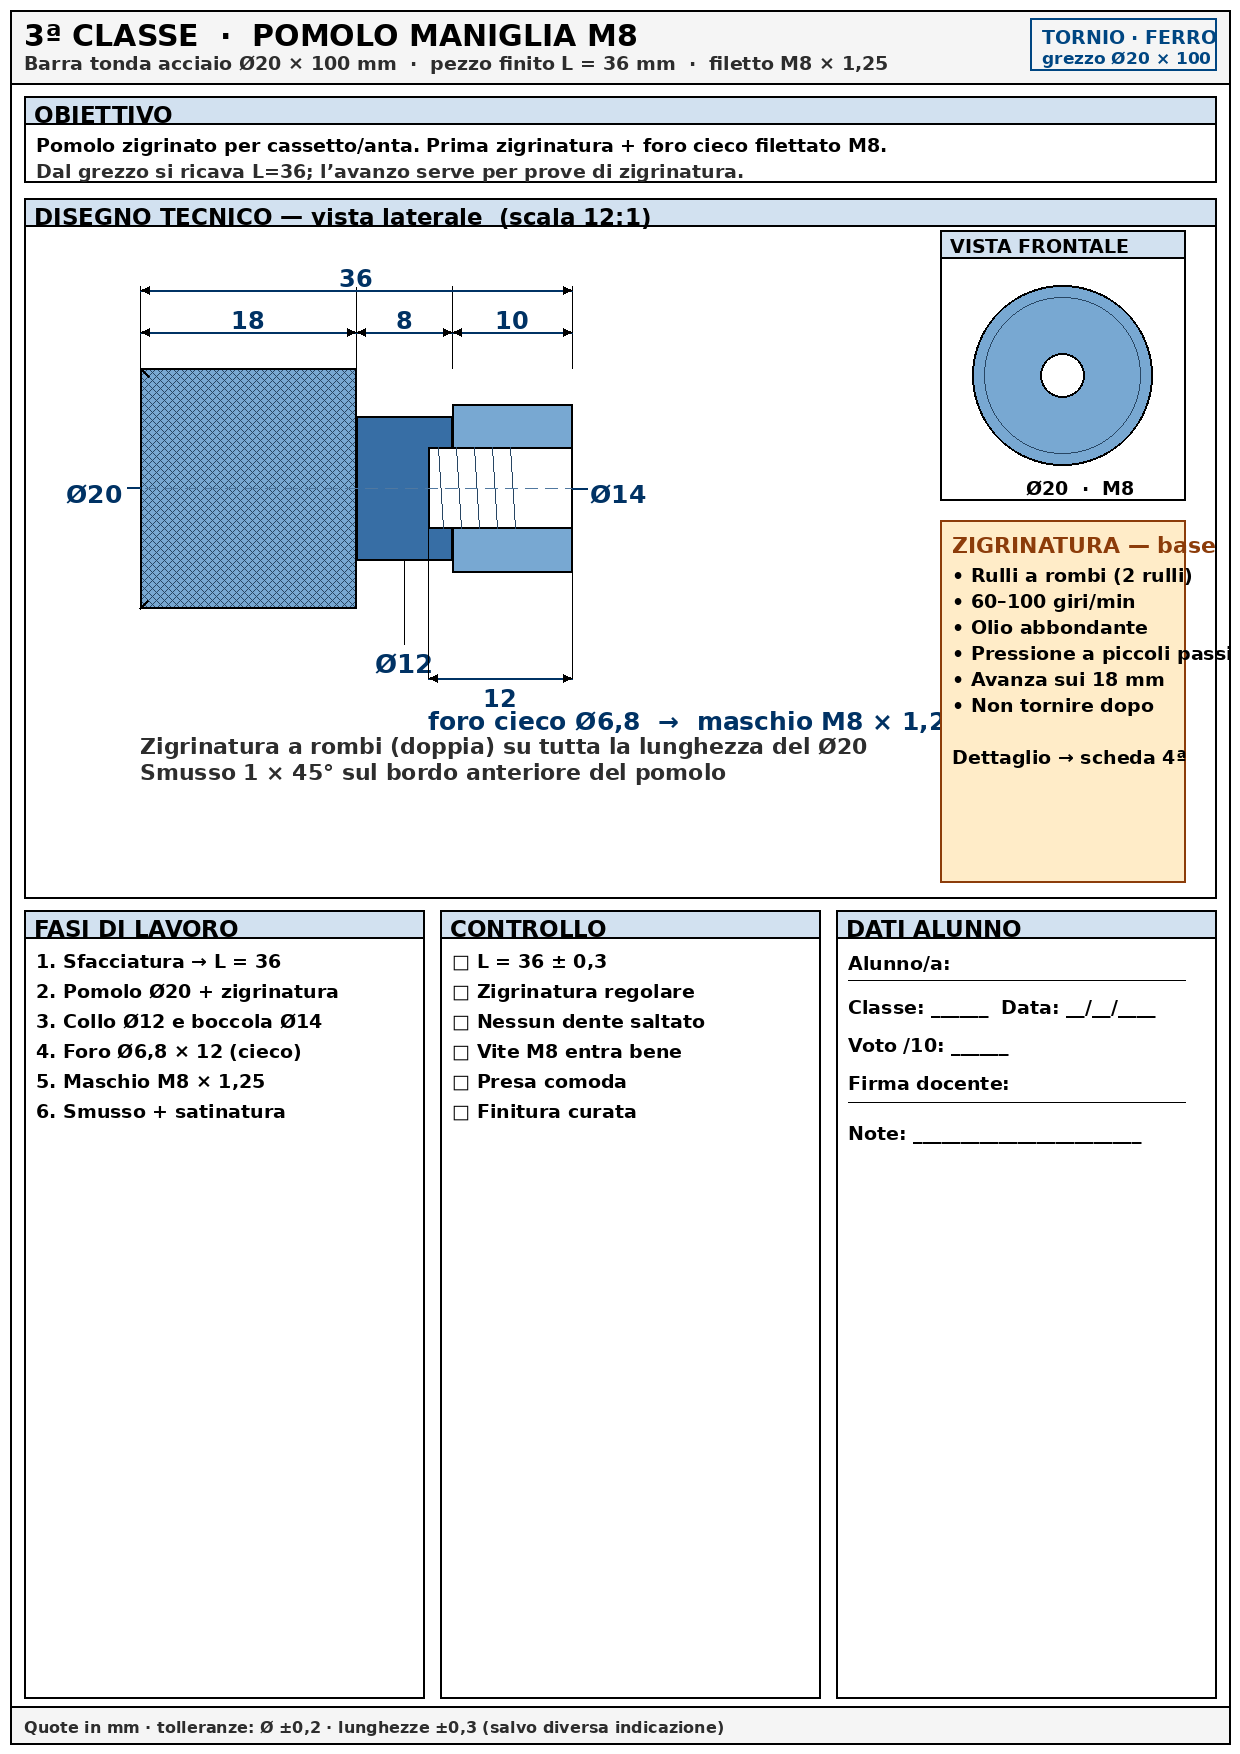
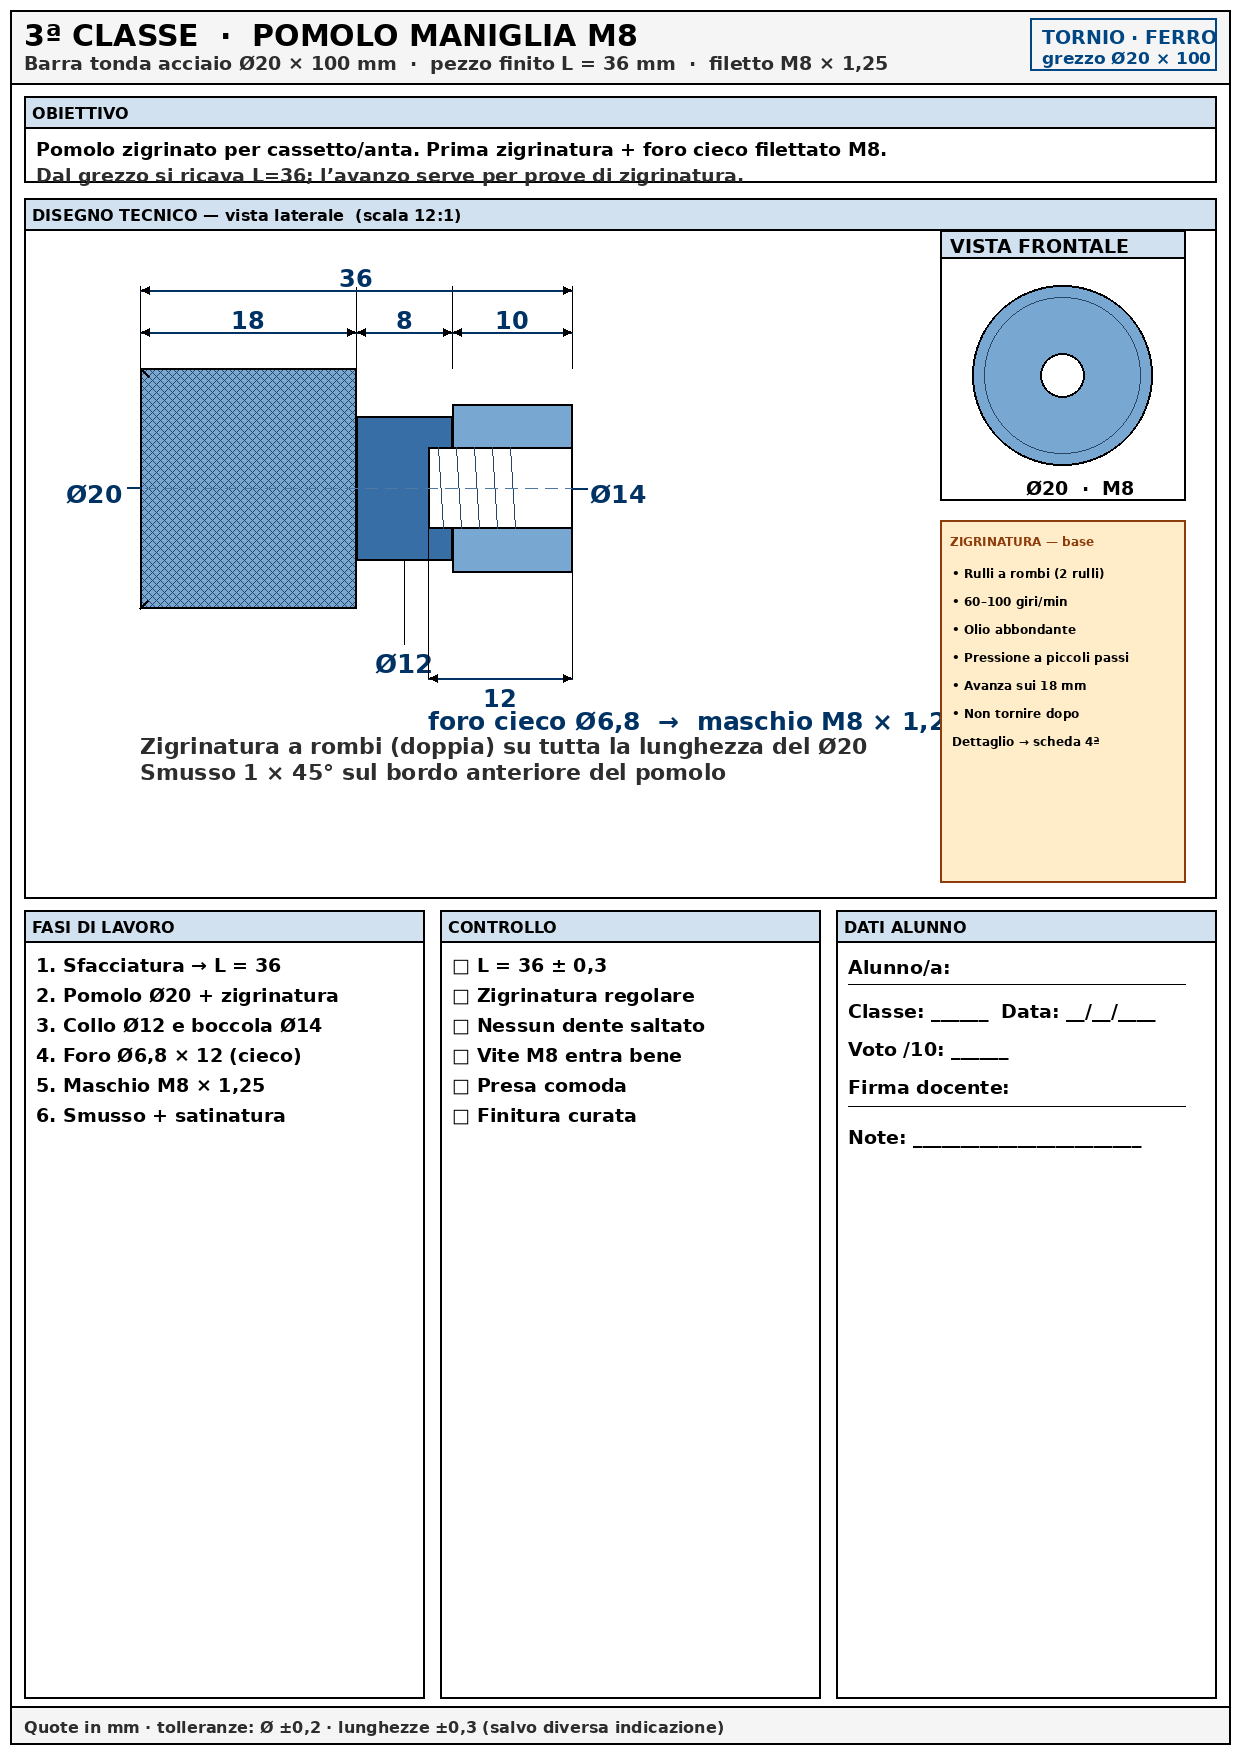
Diciture intere nei riquadri: niente tagli sull'apribottiglie.
Legenda chip larghi, box BOCCA dimensionato sul testo, text_in_box
che riduce il font invece di troncare, dettaglio gancio con fascia
testi riservata.

diff --git a/progetti-ferro-gallery/generate_ferro.py b/progetti-ferro-gallery/generate_ferro.py
@@ -81,10 +81,12 @@ def new_sheet(classe, titolo, sub):
 
 
 def panel(d, x, y, w, h, title):
+    hdr = 32
     d.rectangle([x, y, x + w, y + h], outline=BLACK, width=2)
-    d.rectangle([x, y, x + w, y + 28], fill=LIGHT, outline=BLACK, width=2)
-    d.text((x + 10, y + 5), title, fill=BLACK, font=F14)
-    return y + 34
+    d.rectangle([x, y, x + w, y + hdr], fill=LIGHT, outline=BLACK, width=2)
+    # titolo sempre dentro l’intestazione del pannello
+    text_in_box(d, x, y, w, hdr, title, F14, BLACK, pad=8)
+    return y + hdr + 6
 
 
 def arrow_h(d, x, y, left=True):
@@ -191,66 +193,98 @@ def knurl_box(d, x, y, w, h):
 
 
 def text_fit(d, text, font, max_w):
-    """Accorcia il testo con … se non entra nella larghezza data."""
+    """Ritorna il testo solo se entra; altrimenti None (per fallback)."""
     if d.textlength(text, font=font) <= max_w:
         return text
-    t = text
-    while len(t) > 1 and d.textlength(t + "…", font=font) > max_w:
-        t = t[:-1]
-    return t + "…"
+    return None
+
+
+def text_in_box(d, x, y, w, h, text, font, fill, pad=8):
+    """Scrive testo DENTRO il box: riduce il font se serve, mai fuori dai bordi."""
+    max_w = max(20, w - 2 * pad)
+    max_h = max(12, h - 2 * pad)
+    start = font.size if hasattr(font, "size") else 19
+    for sz in range(min(start, int(max_h)), 10, -1):
+        f = font_b(sz)
+        if d.textlength(text, font=f) <= max_w:
+            # ancora 2px di aria sotto la baseline
+            ty = y + pad + max(0, (max_h - sz) / 2)
+            if ty + sz + 2 > y + h - 2:
+                ty = y + h - sz - 4
+            if ty < y + 2:
+                ty = y + 2
+            d.text((x + pad, ty), text, fill=fill, font=f)
+            return
+    # due righe
+    f = font_b(max(11, min(13, int(max_h / 2) - 1)))
+    words = text.split()
+    line1, line2 = "", ""
+    for w0 in words:
+        trial = (line1 + " " + w0).strip()
+        if d.textlength(trial, font=f) <= max_w:
+            line1 = trial
+        else:
+            line2 = (line2 + " " + w0).strip()
+    d.text((x + pad, y + pad), line1, fill=fill, font=f)
+    if line2 and y + pad + f.size + 4 < y + h - 2:
+        d.text((x + pad, y + pad + f.size + 2), line2, fill=fill, font=f)
 
 
 def draw_hook_detail(d, bx1, by1, bx2, by2):
     """Dettaglio capsula + uncino — TUTTO dentro il riquadro."""
-    pad = 12
-    inner_r = bx2 - pad
+    pad = 14
+    hdr_h = 36
     d.rectangle([bx1, by1, bx2, by2], fill=(255, 250, 240), outline=BLACK, width=2)
-    d.rectangle([bx1, by1, bx2, by1 + 30], fill=(255, 210, 150), outline=BLACK, width=2)
-    d.text((bx1 + pad, by1 + 5), "DETTAGLIO GANCIO", fill=WARN, font=F13)
+    d.rectangle([bx1, by1, bx2, by1 + hdr_h], fill=(255, 210, 150), outline=BLACK, width=2)
+    text_in_box(d, bx1, by1, bx2 - bx1, hdr_h, "DETTAGLIO GANCIO", F13, WARN, pad=8)
 
-    # Disegno compatto centrato nel box
+    # Fascia testi in basso (riservata, non tagliata)
+    foot_h = 72
+    foot_top = by2 - foot_h
+    d.rectangle([bx1 + 2, foot_top, bx2 - 2, by2 - 2], fill=(255, 248, 235), outline=None)
+
     avail_w = bx2 - bx1 - 2 * pad
-    cx = bx1 + pad + avail_w * 0.38
-    neck_w = min(48, avail_w * 0.28)
-    neck_top = by1 + 70
-    bottom = by2 - 70
+    cx = bx1 + pad + avail_w * 0.36
+    neck_w = min(44, avail_w * 0.26)
+    neck_top = by1 + hdr_h + 28
+    bottom = foot_top - 10
 
-    d.rectangle([cx - neck_w / 2, neck_top + 30, cx + neck_w / 2, bottom], fill=GLASS, outline=(40, 90, 120), width=2)
+    d.rectangle([cx - neck_w / 2, neck_top + 28, cx + neck_w / 2, bottom], fill=GLASS, outline=(40, 90, 120), width=2)
 
-    cap_l, cap_r = cx - neck_w / 2 - 16, cx + neck_w / 2 + 16
-    # non uscire dal box
-    cap_l = max(cap_l, bx1 + pad)
-    cap_r = min(cap_r, bx2 - pad - 70)
+    cap_l = max(cx - neck_w / 2 - 14, bx1 + pad)
+    cap_r = min(cx + neck_w / 2 + 14, bx2 - pad - 90)
     cap_top = neck_top
-    d.ellipse([cap_l + 4, cap_top - 10, cap_r - 4, cap_top + 14], fill=CAP_GOLD, outline=BLACK, width=2)
-    d.rectangle([cap_l, cap_top + 2, cap_r, cap_top + 30], fill=CAP_GOLD, outline=BLACK, width=2)
-    # labbro DX
+    d.ellipse([cap_l + 4, cap_top - 8, cap_r - 4, cap_top + 14], fill=CAP_GOLD, outline=BLACK, width=2)
+    d.rectangle([cap_l, cap_top + 2, cap_r, cap_top + 28], fill=CAP_GOLD, outline=BLACK, width=2)
     d.polygon(
-        [(cap_r, cap_top + 30), (cap_r + 2, cap_top + 30), (cap_r - 4, cap_top + 44), (cap_r - 14, cap_top + 44), (cap_r - 14, cap_top + 30)],
+        [
+            (cap_r, cap_top + 28),
+            (cap_r + 2, cap_top + 28),
+            (cap_r - 4, cap_top + 42),
+            (cap_r - 14, cap_top + 42),
+            (cap_r - 14, cap_top + 28),
+        ],
         fill=(180, 140, 40),
         outline=BLACK,
     )
 
-    # uncino (resta a sinistra del bordo destro del box)
-    hx2 = min(cap_r + 58, bx2 - pad)
+    hx2 = min(cap_r + 70, bx2 - pad - 8)
     hook = [
-        (cap_r + 4, cap_top + 18),
-        (hx2, cap_top + 24),
+        (cap_r + 4, cap_top + 16),
+        (hx2, cap_top + 22),
         (hx2 - 4, cap_top + 40),
         (cap_r - 6, cap_top + 42),
-        (cap_r - 6, cap_top + 36),
-        (hx2 - 18, cap_top + 34),
-        (hx2 - 20, cap_top + 26),
-        (cap_r + 6, cap_top + 22),
+        (cap_r - 6, cap_top + 34),
+        (hx2 - 20, cap_top + 32),
+        (hx2 - 22, cap_top + 24),
+        (cap_r + 6, cap_top + 20),
     ]
     d.polygon(hook, fill=ORANGE, outline=BLACK)
 
-    # Testi DENTRO il box, in basso
-    max_tw = bx2 - bx1 - 2 * pad
-    t1 = text_fit(d, "1. uncino SOTTO il bordo", F12, max_tw)
-    t2 = text_fit(d, "2. leva sulla capsula → apre", F12, max_tw)
-    d.text((bx1 + pad, by2 - 48), t1, fill=ORANGE, font=F12)
-    d.text((bx1 + pad, by2 - 26), t2, fill=CAP_RED, font=F12)
+    # Due righe legenda completamente dentro la fascia inferiore
+    tw = bx2 - bx1 - 2 * pad
+    text_in_box(d, bx1 + pad, foot_top + 4, tw, 30, "1. uncino SOTTO il bordo", F12, ORANGE, pad=4)
+    text_in_box(d, bx1 + pad, foot_top + 36, tw, 30, "2. leva sulla capsula → apre", F12, CAP_RED, pad=4)
 
 
 def ext_tick(d, x, y1, y2):
@@ -280,7 +314,11 @@ def make_2a():
     LEFT, RIGHT = 36, W - 36
 
     y = panel(d, 24, 96, W - 48, 64, "OBIETTIVO")
-    d.text((LEFT, y + 4), text_fit(d, "Tornitura + limatura del gancio. Grezzo → L=80 (avanzo ≈20 mm).", F12, RIGHT - LEFT), fill=BLACK, font=F12)
+    text_in_box(
+        d, LEFT - 4, y, RIGHT - LEFT + 8, 28,
+        "Tornitura + limatura del gancio. Grezzo → L=80 (avanzo ≈20 mm).",
+        F12, BLACK, pad=4,
+    )
 
     # ——— PANNELLO DISEGNO (solo profilo + quote + etichette) ———
     draw_top = 176
@@ -341,32 +379,45 @@ def make_2a():
     # Diametri DENTRO l’area disegno
     d.text((x0 + 8, mid - 12), "Ø16", fill=DIM_COL, font=F15)
     d.text((x1 + 20, ty0 - 26), "Ø18", fill=DIM_COL, font=F15)
-    d.text((hx - 55, ty1 + 10), "Ø6 passante", fill=DIM_COL, font=F14)
+    # Ø6 in riquadro sotto il foro (testo intero)
+    o6 = "Ø6 passante"
+    o6w = d.textlength(o6, font=F14) + 16
+    o6x = max(x1 + 4, min(hx - o6w / 2, x2 - o6w - 4))
+    o6y = ty1 + 8
+    d.rectangle([o6x, o6y, o6x + o6w, o6y + 28], fill=WHITE, outline=DIM_COL, width=1)
+    d.text((o6x + 8, o6y + 4), o6, fill=DIM_COL, font=F14)
 
-    # Freccia BOCCA sotto il gancio (dentro il pannello)
-    d.line([x2 + g * 0.5, mid + 28, x2 + g * 0.5, ty1 + 55], fill=CAP_RED, width=2)
-    d.polygon([(x2 + g * 0.5, mid + 26), (x2 + g * 0.5 - 7, mid + 38), (x2 + g * 0.5 + 7, mid + 38)], fill=CAP_RED)
-    # riquadro dicitura BOCCA — testo dentro
-    bx_l, bx_t = x2 - 10, ty1 + 58
-    bx_r, bx_b = min(end_x + 40, RIGHT - 8), bx_t + 52
+    # Freccia + riquadro BOCCA (larghezza calcolata sul testo intero)
+    mx = x2 + g * 0.5
+    d.line([mx, mid + 28, mx, ty1 + 48], fill=CAP_RED, width=2)
+    d.polygon([(mx, mid + 26), (mx - 7, mid + 38), (mx + 7, mid + 38)], fill=CAP_RED)
+    t_b1, t_b2 = "BOCCA del gancio", "(entra la capsula)"
+    need_w = max(d.textlength(t_b1, font=F14), d.textlength(t_b2, font=F12)) + 28
+    bx_t = ty1 + 52
+    bx_b = bx_t + 56
+    bx_l = max(LEFT + 4, mx - need_w / 2)
+    bx_r = bx_l + need_w
+    if bx_r > RIGHT - 4:
+        bx_r = RIGHT - 4
+        bx_l = bx_r - need_w
     d.rectangle([bx_l, bx_t, bx_r, bx_b], fill=(255, 235, 230), outline=CAP_RED, width=2)
-    d.text((bx_l + 8, bx_t + 6), text_fit(d, "BOCCA del gancio", F14, bx_r - bx_l - 16), fill=CAP_RED, font=F14)
-    d.text((bx_l + 8, bx_t + 28), text_fit(d, "(entra la capsula)", F12, bx_r - bx_l - 16), fill=CAP_RED, font=F12)
+    text_in_box(d, bx_l, bx_t, bx_r - bx_l, 28, t_b1, F14, CAP_RED, pad=10)
+    text_in_box(d, bx_l, bx_t + 28, bx_r - bx_l, 26, t_b2, F12, CAP_RED, pad=10)
 
-    # Etichette pezzi — testo CENTRATO e tagliato se non entra
-    def tag(x_a, x_b, y_t, text, fill, tcol=WHITE):
-        x_a2, x_b2 = max(x_a, LEFT), min(x_b, RIGHT)
-        if x_b2 - x_a2 < 40:
-            return
-        d.rounded_rectangle([x_a2, y_t, x_b2, y_t + 34], radius=6, fill=fill, outline=BLACK)
-        tt = text_fit(d, text, F13, x_b2 - x_a2 - 12)
-        tw = d.textlength(tt, font=F13)
-        d.text((x_a2 + (x_b2 - x_a2 - tw) / 2, y_t + 7), tt, fill=tcol, font=F13)
-
-    tag_y = panel_bottom - 50
-    tag(x0, x1, tag_y, "1 CORPO", STEEL, BLACK)
-    tag(x1, x2, tag_y, "2 TESTA", STEEL_D, WHITE)
-    tag(x2, end_x, tag_y, "3 GANCIO", ORANGE, WHITE)
+    # Legenda pezzi: tre chip LARGHI UGUALI (testo sempre intero)
+    legend = [
+        ("1 CORPO", STEEL, BLACK),
+        ("2 TESTA", STEEL_D, WHITE),
+        ("3 GANCIO", ORANGE, WHITE),
+    ]
+    tag_y = panel_bottom - 52
+    gap = 12
+    chip_w = (RIGHT - LEFT - 2 * gap) / 3
+    for i, (lab, fill, tcol) in enumerate(legend):
+        xa = LEFT + i * (chip_w + gap)
+        d.rounded_rectangle([xa, tag_y, xa + chip_w, tag_y + 36], radius=6, fill=fill, outline=BLACK)
+        tw = d.textlength(lab, font=F13)
+        d.text((xa + (chip_w - tw) / 2, tag_y + 8), lab, fill=tcol, font=F13)
 
     # ——— RIGA SOTTO: PRIMA/DOPO | DETTAGLIO ———
     row_y = panel_bottom + 10
@@ -386,8 +437,8 @@ def make_2a():
         fill=ORANGE, outline=BLACK,
     )
     d.text((320, row_y + 175), "dopo lima (uncino)", fill=ORANGE, font=F12)
-    d.text((36, row_y + 220), text_fit(d, "Smusso 1×45° · materiale S235 oppure C40", F12, 540), fill=GRAY, font=F12)
-    d.text((36, row_y + 248), text_fit(d, "La bocca bianca prende il bordo della capsula.", F12, 540), fill=BLACK, font=F12)
+    text_in_box(d, 36, row_y + 214, 540, 24, "Smusso 1×45° · materiale S235 oppure C40", F12, GRAY, pad=2)
+    text_in_box(d, 36, row_y + 242, 540, 24, "La bocca bianca prende il bordo della capsula.", F12, BLACK, pad=2)
 
     # Dettaglio gancio (testi interni al box)
     draw_hook_detail(d, 620, row_y, W - 24, row_y + row_h)
@@ -407,7 +458,7 @@ def make_2a():
             "7. Prova bottiglia (con docente)",
         ]
     ):
-        d.text((36, y + 2 + i * 24), text_fit(d, ln, F12, 370), fill=BLACK, font=F12)
+        text_in_box(d, 36, y + 2 + i * 24, 370, 22, ln, F12, BLACK, pad=2)
 
     y2 = panel(d, 440, bot, 380, bh, "CONTROLLO")
     for i, ln in enumerate(
@@ -421,12 +472,12 @@ def make_2a():
             "□ Superficie satinata",
         ]
     ):
-        d.text((452, y2 + 2 + i * 24), text_fit(d, ln, F12, 350), fill=BLACK, font=F12)
+        text_in_box(d, 452, y2 + 2 + i * 24, 350, 22, ln, F12, BLACK, pad=2)
 
     y3 = panel(d, 836, bot, W - 24 - 836, bh, "DATI ALUNNO")
     d.text((848, y3 + 4), "Alunno/a:", fill=BLACK, font=F12)
     d.line([848, y3 + 28, 1185, y3 + 28], fill=BLACK, width=1)
-    d.text((848, y3 + 40), text_fit(d, "Classe: ______  Data: __/__/____", F12, 320), fill=BLACK, font=F12)
+    text_in_box(d, 848, y3 + 40, 340, 24, "Classe: ______  Data: __/__/____", F12, BLACK, pad=2)
     d.text((848, y3 + 72), "Voto /10: ______", fill=BLACK, font=F12)
     d.text((848, y3 + 104), "Firma docente:", fill=BLACK, font=F12)
     d.line([848, y3 + 130, 1185, y3 + 130], fill=BLACK, width=1)
@@ -524,9 +575,10 @@ def make_3a():
     d.ellipse([cx - r2, cy - r2, cx + r2, cy + r2], fill=WHITE, outline=BLACK, width=2)
     d.text((cx - 36, cy + R + 12), "Ø20  ·  M8", fill=BLACK, font=F12)
 
-    # Zigrinatura breve
+    # Zigrinatura breve — testi sempre dentro il riquadro
+    zg_box_w = 1185 - bx1
     d.rectangle([bx1, 520, 1185, draw_top + draw_h - 16], fill=WARN_BG, outline=WARN, width=2)
-    d.text((bx1 + 12, 532), "ZIGRINATURA — base", fill=WARN, font=F13)
+    text_in_box(d, bx1, 524, zg_box_w, 28, "ZIGRINATURA — base", F13, WARN, pad=10)
     for i, ln in enumerate(
         [
             "• Rulli a rombi (2 rulli)",
@@ -535,11 +587,10 @@ def make_3a():
             "• Pressione a piccoli passi",
             "• Avanza sui 18 mm",
             "• Non tornire dopo",
-            "",
             "Dettaglio → scheda 4ª",
         ]
     ):
-        d.text((bx1 + 12, 564 + i * 26), ln, fill=BLACK, font=F12)
+        text_in_box(d, bx1 + 4, 558 + i * 28, zg_box_w - 8, 26, ln, F12, BLACK, pad=8)
 
     bot = draw_top + draw_h + 12
     bh = FOOT - bot - 8
@@ -802,11 +853,19 @@ def make_5a():
     label_note(d, ox, ny + 56, "Punta: a scelta bombata (non segna il pezzo) oppure piana")
     label_note(d, ox, ny + 84, "L tot. 100 = 22 (pomolo) + 8 (sottotesta) + 70 (gambo filettato)")
 
-    # Nota zigrinatura
+    # Nota zigrinatura — testo intero dentro il riquadro
     zb = draw_top + draw_h - 90
     d.rectangle([40, zb, W - 40, zb + 70], fill=WARN_BG, outline=WARN, width=2)
-    d.text((52, zb + 12), "ZIGRINATURA: giri bassi (60–120) · olio · pressione progressiva · non tornire dopo.", fill=WARN, font=F12)
-    d.text((52, zb + 40), "Dettaglio completo sulla scheda 4ª classe (cacciavite).", fill=GRAY, font=F12)
+    text_in_box(
+        d, 40, zb + 6, W - 80, 30,
+        "ZIGRINATURA: giri bassi (60–120) · olio · pressione progressiva · non tornire dopo.",
+        F12, WARN, pad=12,
+    )
+    text_in_box(
+        d, 40, zb + 36, W - 80, 28,
+        "Dettaglio completo sulla scheda 4ª classe (cacciavite).",
+        F12, GRAY, pad=12,
+    )
 
     bot = draw_top + draw_h + 12
     bh = FOOT - bot - 8
